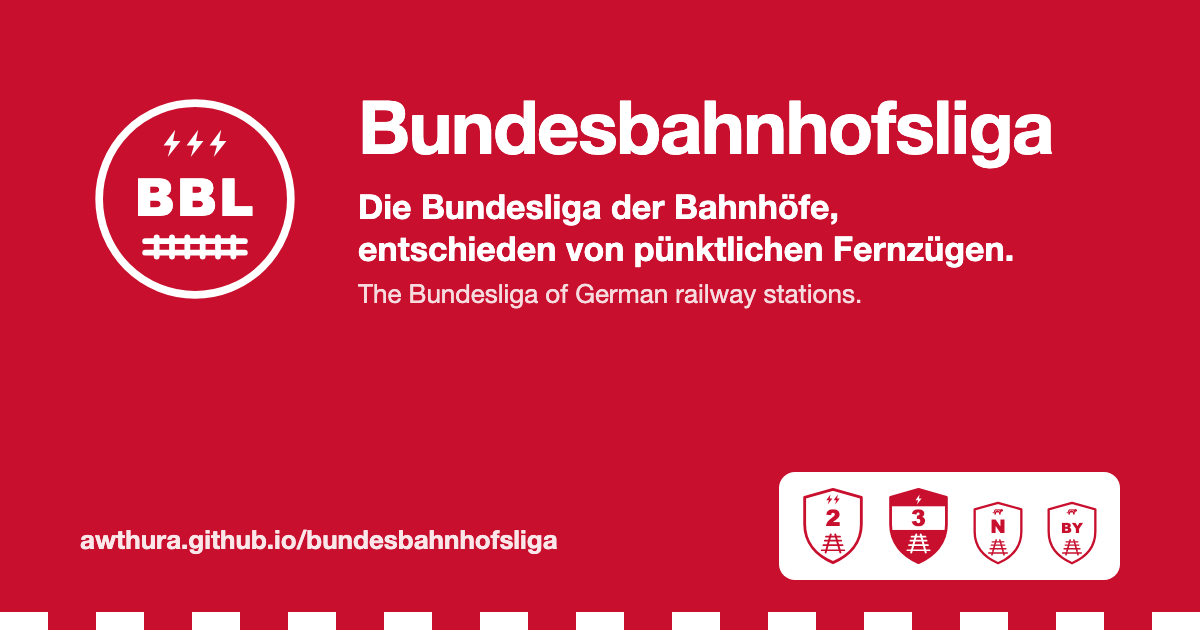
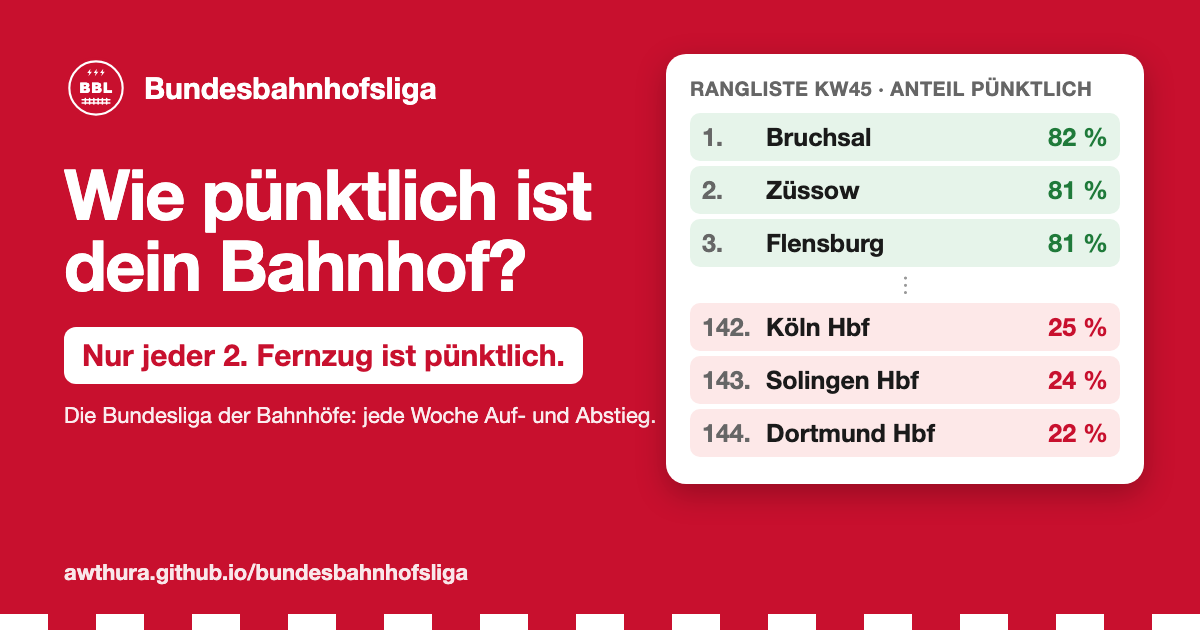
Catchier link preview: question, 'only every second long-distance train is on time', KW45 top 3 and bottom of the ranking
Bottom rows show places 142-144 (Köln, Solingen, Dortmund: mostly late trains). Gelsenkirchen
(145.) is left out on purpose: its 5% that week came from 84% cancelled stops, not lateness.
Image URL versioned so LinkedIn refetches it; og:description updated.

diff --git a/scripts/share_card.html b/scripts/share_card.html
@@ -1,35 +1,48 @@
 <!doctype html>
-<!-- Link preview image (LinkedIn, etc.). Regenerate with:
-     "/Applications/Google Chrome.app/Contents/MacOS/Google Chrome" --headless=new --window-size=1200,630 \
-       --screenshot=docs/assets/share.png "file://$PWD/scripts/share_card.html" -->
+<!-- Link preview image (LinkedIn etc.). Snapshot of KW45 (last finished week when created).
+     Bottom rows: places 142-144 (Köln, Solingen, Dortmund: mostly late trains). Gelsenkirchen Hbf (145.) is left out on
+     purpose: its 5 % that week came from 84 % cancelled stops (trains not stopping there), not from late trains.
+     Regenerate: "/Applications/Google Chrome.app/Contents/MacOS/Google Chrome" --headless=new --hide-scrollbars \
+       --allow-file-access-from-files --window-size=1200,630 --screenshot=docs/assets/share.png "file://$PWD/scripts/share_card.html" -->
 <html><head><meta charset="utf-8"><style>
   html, body { margin: 0; width: 1200px; height: 630px; overflow: hidden; }
   body { background: #c8102e; color: #fff; font-family: "Helvetica Neue", Arial, sans-serif; position: relative; }
-  .stripe { position: absolute; left: 0; right: 0; bottom: 0; height: 18px;
-    background: repeating-linear-gradient(90deg, #fff 0 48px, #c8102e 48px 96px); }
-  .main { display: flex; align-items: center; gap: 48px; padding: 84px 80px 0; }
-  .badge { width: 230px; height: 230px; flex: 0 0 auto; }
-  h1 { margin: 0; font-size: 74px; font-weight: 900; letter-spacing: -1.5px; line-height: 1; }
-  .de { font-size: 34px; font-weight: 700; margin: 22px 0 8px; line-height: 1.25; }
-  .en { font-size: 26px; opacity: .85; margin: 0; }
-  .crests { position: absolute; right: 80px; bottom: 50px; display: flex; gap: 18px; align-items: flex-end;
-    background: #fff; border-radius: 16px; padding: 14px 20px; }
-  .crests img { height: 80px; }
-  .crests img.small { height: 66px; }
-  .url { position: absolute; left: 80px; bottom: 74px; font-size: 26px; font-weight: 700; opacity: .9; }
+  .stripe { position: absolute; left: 0; right: 0; bottom: 0; height: 16px; background: repeating-linear-gradient(90deg, #fff 0 48px, #c8102e 48px 96px); }
+  .left { position: absolute; left: 64px; top: 56px; width: 600px; }
+  .brand { display: flex; align-items: center; gap: 16px; font-size: 30px; font-weight: 900; }
+  .brand img { width: 64px; height: 64px; }
+  h1 { margin: 38px 0 0; font-size: 70px; line-height: 1.02; font-weight: 900; letter-spacing: -1.5px; }
+  .stat { margin-top: 26px; display: inline-block; background: #fff; color: #c8102e; font-weight: 900; font-size: 30px;
+          border-radius: 12px; padding: 10px 18px; }
+  .sub { margin-top: 18px; font-size: 22px; opacity: .92; }
+  .card { position: absolute; right: 56px; top: 54px; width: 430px; background: #fff; color: #1a1a1a; border-radius: 20px;
+          padding: 22px 24px; box-shadow: 0 10px 30px rgba(0,0,0,.25); }
+  .card h2 { margin: 0 0 12px; font-size: 20px; letter-spacing: .5px; text-transform: uppercase; color: #666; }
+  .row { display: flex; align-items: center; gap: 12px; padding: 9px 12px; border-radius: 10px; font-size: 25px; font-weight: 700; margin: 5px 0; }
+  .row .pos { width: 52px; color: #666; font-weight: 800; }
+  .row .name { flex: 1; white-space: nowrap; overflow: hidden; text-overflow: ellipsis; }
+  .row .val { font-variant-numeric: tabular-nums; }
+  .up { background: #e6f4ea; } .up .val { color: #1f7a3a; }
+  .down { background: #fde8e8; } .down .val { color: #c8102e; }
+  .dots { text-align: center; color: #999; font-size: 26px; line-height: 1; margin: 4px 0; }
+  .url { position: absolute; left: 64px; bottom: 44px; font-size: 22px; font-weight: 700; opacity: .9; }
 </style></head><body>
-  <div class="main">
-    <img class="badge" src="../docs/assets/logos/bbl.svg" alt="">
-    <div>
-      <h1>Bundesbahnhofsliga</h1>
-      <p class="de">Die Bundesliga der Bahnhöfe,<br>entschieden von pünktlichen Fernzügen.</p>
-      <p class="en">The Bundesliga of German railway stations.</p>
-    </div>
+  <div class="left">
+    <div class="brand"><img src="../docs/assets/logos/bbl.svg" alt="">Bundesbahnhofsliga</div>
+    <h1>Wie pünktlich ist dein Bahnhof?</h1>
+    <div class="stat">Nur jeder 2. Fernzug ist pünktlich.</div>
+    <div class="sub">Die Bundesliga der Bahnhöfe: jede Woche Auf- und Abstieg.</div>
+  </div>
+  <div class="card">
+    <h2>Rangliste KW45 · Anteil pünktlich</h2>
+    <div class="row up"><span class="pos">1.</span><span class="name">Bruchsal</span><span class="val">82 %</span></div>
+    <div class="row up"><span class="pos">2.</span><span class="name">Züssow</span><span class="val">81 %</span></div>
+    <div class="row up"><span class="pos">3.</span><span class="name">Flensburg</span><span class="val">81 %</span></div>
+    <div class="dots">⋮</div>
+    <div class="row down"><span class="pos">142.</span><span class="name">Köln Hbf</span><span class="val">25 %</span></div>
+    <div class="row down"><span class="pos">143.</span><span class="name">Solingen Hbf</span><span class="val">24 %</span></div>
+    <div class="row down"><span class="pos">144.</span><span class="name">Dortmund Hbf</span><span class="val">22 %</span></div>
   </div>
   <div class="url">awthura.github.io/bundesbahnhofsliga</div>
-  <div class="crests">
-    <img src="../docs/assets/logos/liga-2.svg" alt=""><img src="../docs/assets/logos/liga-3.svg" alt="">
-    <img class="small" src="../docs/assets/logos/liga-RL-N.svg" alt=""><img class="small" src="../docs/assets/logos/liga-RL-BY.svg" alt="">
-  </div>
   <div class="stripe"></div>
 </body></html>

diff --git a/docs/index.html b/docs/index.html
@@ -8,8 +8,8 @@
 <meta property="og:type" content="website">
 <meta property="og:url" content="https://awthura.github.io/bundesbahnhofsliga/">
 <meta property="og:title" content="Bundesbahnhofsliga · Die Bundesliga der Bahnhöfe">
-<meta property="og:description" content="Welcher Bahnhof hat die pünktlichsten Fernzüge? Jede Woche eine Saison, mit Auf- und Abstieg. The Bundesliga of German railway stations, decided by punctual long-distance trains.">
-<meta property="og:image" content="https://awthura.github.io/bundesbahnhofsliga/assets/share.png">
+<meta property="og:description" content="Nur jeder zweite Fernzug kommt pünktlich an. Wie schlägt sich dein Bahnhof? Jede Woche eine Tabelle mit Auf- und Abstieg. Only every second long-distance train is on time: how does your station rank?">
+<meta property="og:image" content="https://awthura.github.io/bundesbahnhofsliga/assets/share.png?v=kw45">
 <meta property="og:image:width" content="1200">
 <meta property="og:image:height" content="630">
 <meta name="twitter:card" content="summary_large_image">
